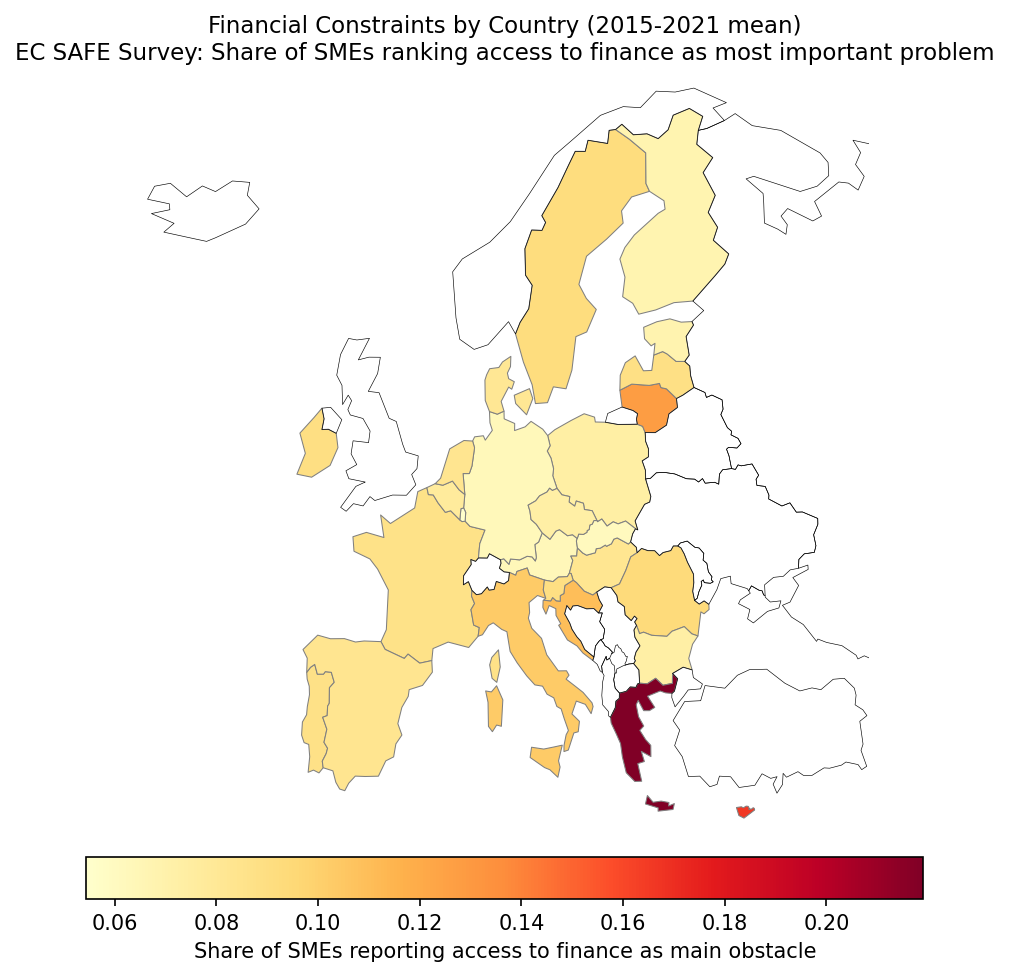
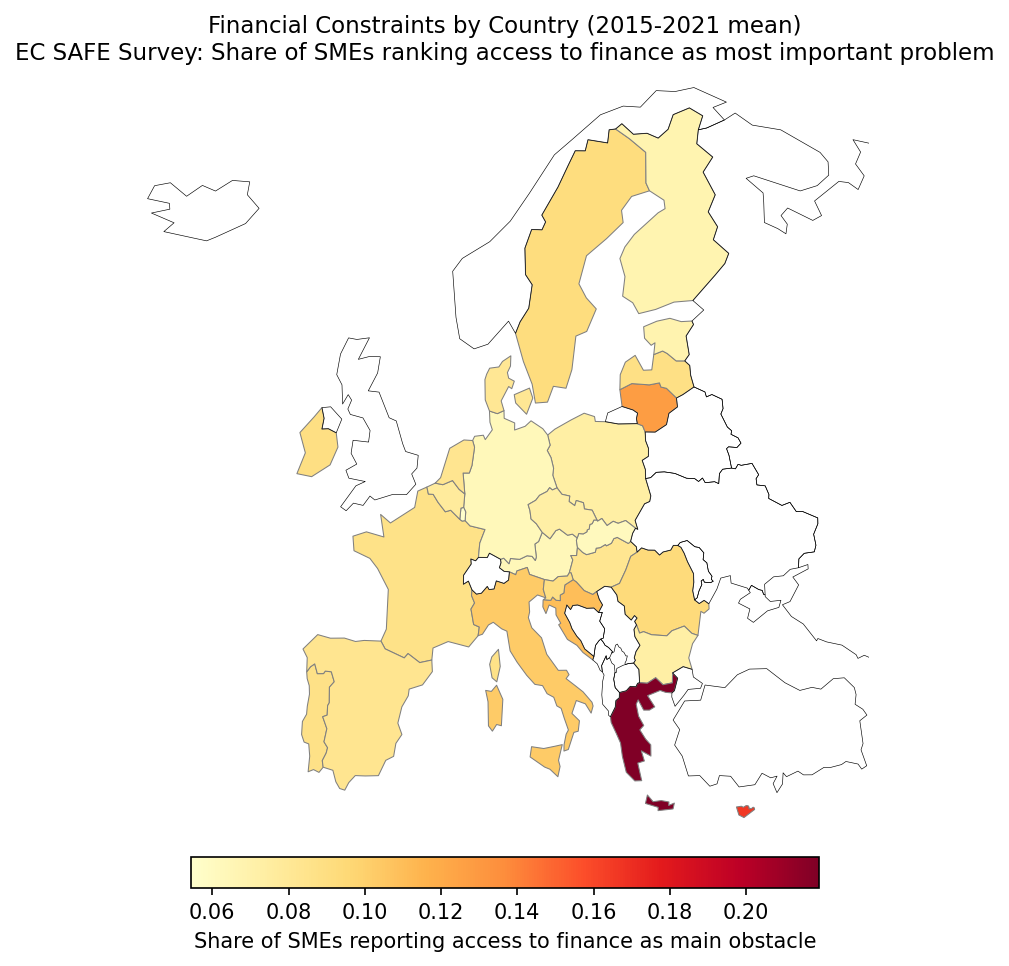
viz: fix Figure 1 aspect ratio
Change figsize from (12, 8) to (9, 8) for proper geographic proportions
at European latitudes (width:height ~ 1.11:1).

diff --git a/src/viz/descriptives.py b/src/viz/descriptives.py
@@ -61,7 +61,7 @@ def beat1_constraint_map(panel):
     # Merge
     europe = europe.merge(mean_constraint, on="ne_iso", how="left")
 
-    fig, ax = plt.subplots(1, 1, figsize=(12, 8))
+    fig, ax = plt.subplots(1, 1, figsize=(9, 8))
 
     # Plot countries with data
     europe_with_data = europe[europe["constraint_share"].notna()]